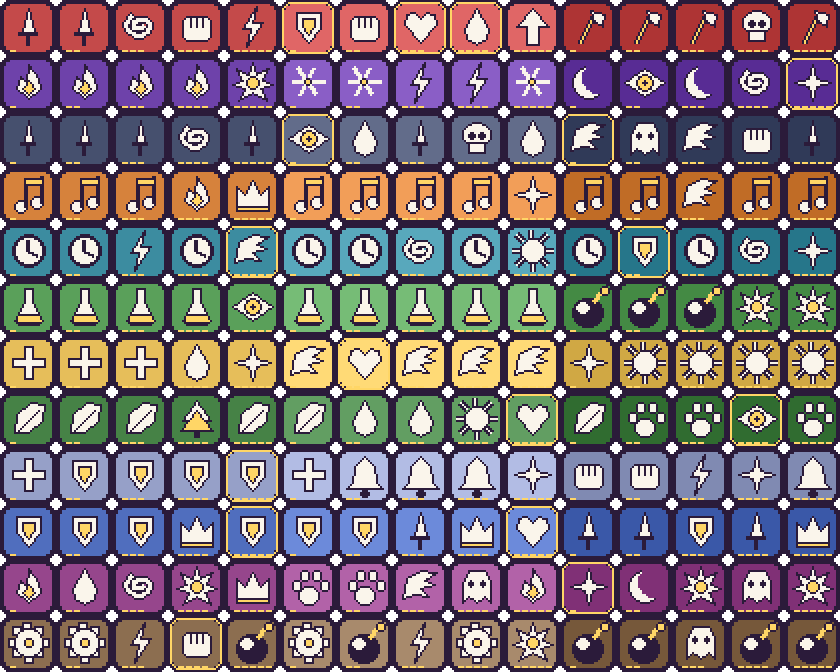
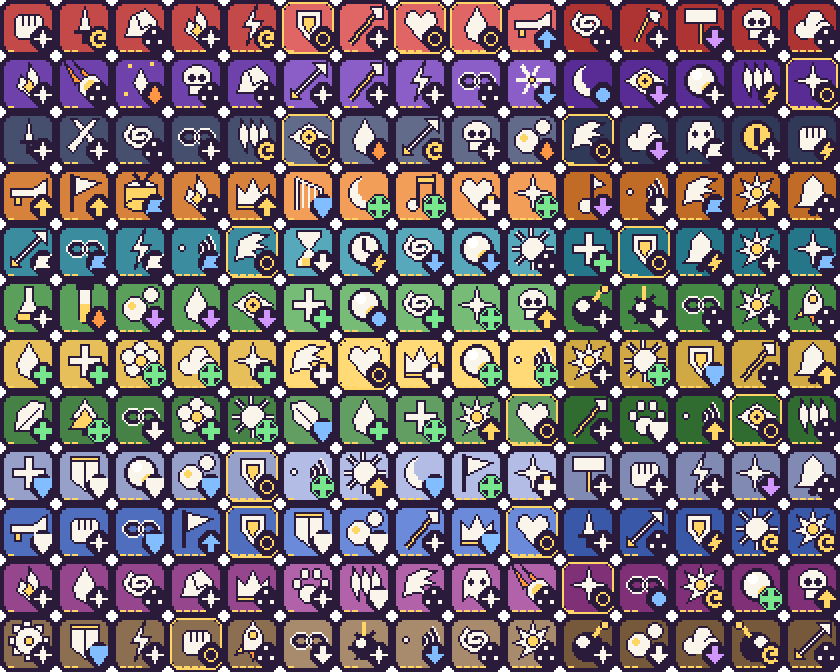
스킬 아이콘: 180개 모두 다른 그림 (모양 25종 추가 + 종류 표시 + 겹치면 변형)
Claude-Session: https://claude.ai/code/session_01HhJ2NoNCjk5kaA3GWL7UDs

Changed region(s): [[0.0, 0.0, 1.0, 1.0]]

diff --git a/public/index.html b/public/index.html
@@ -21,7 +21,7 @@
   --fs:15px;--fs-s:13px;--fs-h:16px;--fs-talk:17px;--r-btn:12px;--r-panel:16px;--r-cell:8px;--hud-h:56px;--bar-h:64px;--dur:.18s}
 html.big{--fs:17px;--fs-s:15px;--fs-h:18px;--fs-talk:19px}
 .jic{display:inline-block;width:1.5em;height:1.5em;vertical-align:middle;background:url(art/jobs.png?v=1) 0 0/1200% 100%;background-position:calc(var(--i)*100%/11) 0;image-rendering:pixelated}
-.big .jic{width:34px;height:34px}.sic{display:inline-block;width:26px;height:26px;vertical-align:middle;background:url(art/skills.png?v=1) 0 0/1500% 1200%;background-position:calc(var(--c)*100%/14) calc(var(--r)*100%/11);image-rendering:pixelated}
+.big .jic{width:34px;height:34px}.sic{display:inline-block;width:26px;height:26px;vertical-align:middle;background:url(art/skills.png?v=2) 0 0/1500% 1200%;background-position:calc(var(--c)*100%/14) calc(var(--r)*100%/11);image-rendering:pixelated}
 .jgrid{display:grid;grid-template-columns:repeat(3,1fr);gap:6px}.jcard{display:flex;flex-direction:column;align-items:center;gap:2px;padding:8px 4px;border:2px solid var(--line,#5a4a78);border-radius:10px;background:transparent;color:inherit;font:inherit;text-align:center}.jcard .jic{width:32px;height:32px}.jcard b{font-size:13px}.jcard span{font-size:10px;opacity:.75;line-height:1.25}.jcard.on{border-color:#ffb84d;background:rgba(255,184,77,.18)}
 html.lowfx *,html.lowfx *::before,html.lowfx *::after{transition-duration:0s!important;animation-duration:0s!important}
 @media (prefers-reduced-motion:reduce){:root{--dur:0s}}

diff --git a/tools/skill_tree.py b/tools/skill_tree.py
@@ -41,6 +41,20 @@ T = {
             ('함정', [('덫 설치','s','gear'),('지뢰','d','bomb'),('전기 그물','S','bolt'),('연쇄 함정','D','gear'),('대지 폭파','D','burst')]),
             ('폭탄', [('수류탄','d','bomb'),('접착탄','s','bomb'),('연막탄','w','ghost'),('시한폭탄','c','bomb'),('집중 포화','D','bomb')])],
 }
+OV = {  # 같은 직업 안에서 그림이 겹치지 않게 이름별로 모양을 바꿔요
+ 'warrior': {'강타':'fist','대지 가르기':'rock','분노의 일격':'fire','되받아치기':'spear','파쇄':'hammer','폭풍 도끼':'cloud','회전 베기':'swirl','전장의 포효':'trumpet'},
+ 'black': {'화염구':'fireball','불씨':'ember','지옥불':'skull','메테오':'rock','서리 화살':'arrow','얼음 창':'spear','연쇄 번개':'chain','암흑 구체':'orb','공허의 손':'claw'},
+ 'thief': {'이중 베기':'cross2','칼춤':'swirl','연환':'chain','난도질':'claw','급소 찌르기':'arrow','피 웅덩이':'bubble','연막':'cloud','그림자 걸음':'ghost','훔치기':'coin','뒤잡기':'fist'},
+ 'bard': {'용기의 노래':'trumpet','승리의 행진':'flag','전장의 북소리':'drum','수호의 노래':'harp','자장가':'moon','되살림의 화음':'heart','불협화음':'note1','도발의 곡':'wave','앙코르':'burst','대합창':'bell'},
+ 'time': {'서두르기':'arrow','연속 가속':'chain','가속 영역':'wave','늦추기':'hourglass','시간 정체':'orb','되감기':'cross','시계 소환':'bell','시간 균열':'burst'},
+ 'alch': {'독 병':'tube','불안정 용액':'bubble','부식':'drop','응급 물약':'cross','마력 물약':'orb','혼합 약':'swirl','엘릭서':'star','변이약':'skull','점착 폭탄':'mine','연쇄 반응':'chain','연금 대폭발':'rocket'},
+ 'white': {'치유':'drop','큰 치유':'cross','집단 치유':'flower','신성한 비':'cloud','완전 소생':'crown','전체 소생':'orb','천사의 숨결':'wave','성광탄':'burst','빛의 장막':'shield','심판의 빛':'spear','광휘의 후광':'bell'},
+ 'druid': {'재생의 숲':'tree','뿌리 속박':'chain','생명의 나무':'flower','만개':'sun','독 제거':'cross','태양의 은총':'burst','가시 덩굴':'spear','늑대의 울음':'wave','야생의 화신':'claw'},
+ 'cleric': {'수호의 기도':'cross','성스러운 방패':'tower','대신 맞기':'orb','피해 흡수 막':'bubble','해제':'wave','축복':'sun','안식':'moon','순백의 종':'flag','철퇴':'hammer'},
+ 'knight': {'도발':'trumpet','방패 치기':'fist','전열':'chain','불굴의 외침':'flag','막아서기':'tower','방어 태세':'bubble','반격 태세':'spear','돌격':'arrow','정의의 칼날':'sun','기사의 일격':'burst'},
+ 'summon': {'대지 정령':'rock','곰 소환':'claw','용 소환':'fireball','마력 연결':'chain','송환':'orb','계약의 폭주':'skull'},
+ 'gadget': {'보조 포탑':'tower','요새 포대':'rocket','덫 설치':'chain','지뢰':'mine','전기 그물':'wave','연쇄 함정':'swirl','접착탄':'bubble','연막탄':'cloud','집중 포화':'arrow'},
+}
 ORDER = ['warrior','black','thief','bard','time','alch','white','druid','cleric','knight','summon','gadget']
 BG = {'warrior':(196,74,74),'black':(110,66,170),'thief':(70,80,110),'bard':(214,130,60),'time':(60,140,160),'alch':(90,160,90),'white':(230,190,90),'druid':(70,130,70),'cleric':(150,160,200),'knight':(80,110,190),'summon':(150,70,140),'gadget':(140,110,80)}
 O = (43,27,58,255); S = 28; G = 24
@@ -89,21 +103,86 @@ def glyph(g, d, fg, ac):
     elif g == 'up': P([(12,3),(20,12),(15,12),(15,21),(9,21),(9,12),(4,12)])
     elif g == 'crown': P([(4,18),(4,8),(8,12),(12,5),(16,12),(20,8),(20,18)]); d.rectangle([4,18,20,20], fill=ac, outline=O)
     elif g == 'ghost': P([(5,20),(5,10),(8,4),(16,4),(19,10),(19,20),(16,17),(12,20),(8,17)]); d.ellipse([8,9,10,12], fill=O); d.ellipse([14,9,16,12], fill=O)
+    elif g == 'trumpet': P([(3,10),(14,10),(21,5),(21,19),(14,14),(3,14)]); d.rectangle([5,14,8,18], fill=ac, outline=O)
+    elif g == 'flag': d.rectangle([5,3,6,21], fill=O); P([(7,4),(20,7),(7,13)])
+    elif g == 'drum': d.ellipse([4,6,20,12], fill=fg, outline=O); d.rectangle([4,9,20,18], fill=ac, outline=O); d.ellipse([4,15,20,21], fill=ac, outline=O); d.line([(8,2),(13,8)], fill=O, width=2); d.line([(17,2),(12,8)], fill=O, width=2)
+    elif g == 'harp': d.line([(6,20),(6,5),(18,10),(18,20)], fill=O, width=3); d.line([(6,20),(6,5),(18,10),(18,20)], fill=fg, width=1); [d.line([(x,7+(x-6)//4),(x,19)], fill=fg) for x in (9,12,15)]
+    elif g == 'note1': d.ellipse([7,15,14,22], fill=fg, outline=O); d.rectangle([13,3,14,18], fill=O); P([(14,3),(20,8),(14,10)])
+    elif g == 'wave':
+        for i, rr in enumerate((3, 6, 9)): d.arc([12-rr, 12-rr, 12+rr, 12+rr], -50, 50, fill=O, width=3); d.arc([12-rr, 12-rr, 12+rr, 12+rr], -50, 50, fill=fg, width=1)
+        d.ellipse([3,10,6,13], fill=fg, outline=O)
+    elif g == 'tube': d.rounded_rectangle([9,3,15,21], 3, fill=fg, outline=O); d.rectangle([10,12,14,20], fill=ac); d.rectangle([8,2,16,4], fill=O)
+    elif g == 'bubble': d.ellipse([3,8,15,20], fill=fg, outline=O); d.ellipse([13,3,21,11], fill=fg, outline=O); d.ellipse([6,11,9,14], fill=ac)
+    elif g == 'mine': d.ellipse([6,9,18,21], fill=O); d.ellipse([8,11,12,15], fill=fg); [d.line([(12+8*math.cos(a*math.pi/3),15+8*math.sin(a*math.pi/3)),(12+5*math.cos(a*math.pi/3),15+5*math.sin(a*math.pi/3))], fill=O, width=2) for a in range(6)]; d.rectangle([11,3,12,9], fill=ac)
+    elif g == 'rocket': P([(12,2),(17,9),(17,17),(7,17),(7,9)]); P([(7,13),(3,19),(7,18)], ac); P([(17,13),(21,19),(17,18)], ac); P([(10,17),(14,17),(12,22)], (255,150,60,255)); d.ellipse([10,7,14,11], fill=ac, outline=O)
+    elif g == 'rock': P([(4,18),(7,8),(14,4),(20,10),(21,18)]); d.line([(10,8),(12,14),(17,12)], fill=O)
+    elif g == 'hammer': d.rectangle([11,9,13,21], fill=O); d.rectangle([12,9,12,21], fill=ac); P([(4,4),(20,4),(20,11),(4,11)])
+    elif g == 'spear': d.line([(5,21),(17,7)], fill=O, width=3); d.line([(5,21),(17,7)], fill=ac, width=1); P([(15,3),(21,3),(21,9),(18,9)])
+    elif g == 'arrow': d.line([(4,20),(18,6)], fill=O, width=3); d.line([(4,20),(18,6)], fill=fg, width=1); P([(14,3),(21,3),(21,10)]); P([(3,16),(8,21),(3,21)], ac)
+    elif g == 'claw':
+        for x in (6,11,16): P([(x,3),(x+4,9),(x+3,20),(x-1,12)])
+    elif g == 'cloud': d.ellipse([3,10,12,19], fill=fg, outline=O); d.ellipse([8,5,18,16], fill=fg, outline=O); d.ellipse([13,10,22,19], fill=fg, outline=O); d.rectangle([7,13,17,18], fill=fg)
+    elif g == 'orb': d.ellipse([4,4,20,20], fill=fg, outline=O, width=2); d.ellipse([8,7,12,11], fill=(255,255,255,255)); d.ellipse([13,13,18,18], fill=ac)
+    elif g == 'ember': P([(12,6),(16,13),(12,19),(8,13)]); d.rectangle([6,4,7,5], fill=ac); d.rectangle([17,3,18,4], fill=ac); d.rectangle([4,18,5,19], fill=ac)
+    elif g == 'fireball': d.ellipse([9,9,21,21], fill=fg, outline=O); d.ellipse([12,12,18,18], fill=ac); P([(10,12),(2,3),(7,14)], (255,150,60,255)); P([(12,10),(6,2),(14,9)], (255,150,60,255))
+    elif g == 'hourglass': P([(6,3),(18,3),(18,6),(13,12),(18,18),(18,21),(6,21),(6,18),(11,12),(6,6)]); d.rectangle([9,17,15,20], fill=ac)
+    elif g == 'flower':
+        for a in range(5): r = math.radians(a*72-90); d.ellipse([12+6*math.cos(r)-4, 12+6*math.sin(r)-4, 12+6*math.cos(r)+4, 12+6*math.sin(r)+4], fill=fg, outline=O)
+        d.ellipse([9,9,15,15], fill=ac, outline=O)
+    elif g == 'chain': d.ellipse([3,8,13,16], outline=O, width=3); d.ellipse([11,8,21,16], outline=O, width=3); d.ellipse([3,8,13,16], outline=fg, width=1); d.ellipse([11,8,21,16], outline=fg, width=1)
+    elif g == 'coin': d.ellipse([4,4,20,20], fill=ac, outline=O, width=2); d.rectangle([11,8,13,16], fill=O)
+    elif g == 'tower': P([(5,4),(19,4),(19,15),(12,21),(5,15)]); d.rectangle([5,4,19,6], fill=ac, outline=O); d.line([(12,6),(12,19)], fill=O)
+    elif g == 'cross2': P([(5,3),(8,3),(21,17),(18,20)]); P([(19,3),(16,3),(3,17),(6,20)])
 PK = {'def':'shield','hp':'heart','atk':'fist','mag':'star','spd':'wing','vamp':'drop','crit':'eye'}
-def tile(job, b, r, code, g):
+VAR = [(0,0),(1,0),(0,25),(1,25),(0,-25),(1,-25),(0,50),(1,50),(0,-50),(1,-50)]   # (좌우 뒤집기, 기울기) — 같은 모양이 겹치면 돌려서 구분
+def mod(d, code, ac):   # 오른쪽 아래 작은 표시: 스킬 종류
+    X, Y = 21, 19; d.ellipse([X-6, Y-6, X+6, Y+6], fill=O); k = code[0]
+    W = (250,245,235,255); G = (120,230,140,255); Bl = (130,190,255,255); Pu = (210,150,255,255); Or = (255,150,70,255)
+    def up(c): d.polygon([(X,Y-4),(X+4,Y),(X+1,Y),(X+1,Y+4),(X-1,Y+4),(X-1,Y),(X-4,Y)], fill=c)
+    def dn(c): d.polygon([(X,Y+4),(X+4,Y),(X+1,Y),(X+1,Y-4),(X-1,Y-4),(X-1,Y),(X-4,Y)], fill=c)
+    def plus(c): d.rectangle([X-1,Y-4,X+1,Y+4], fill=c); d.rectangle([X-4,Y-1,X+4,Y+1], fill=c)
+    def dots(c): [d.rectangle([X+dx-1,Y+dy-1,X+dx,Y+dy], fill=c) for dx,dy in ((-3,2),(3,2),(0,-3))]
+    if code.startswith('P:'): d.ellipse([X-3,Y-3,X+3,Y+3], outline=ac)
+    elif k == 'd': d.polygon([(X,Y-4),(X+1,Y-1),(X+4,Y),(X+1,Y+1),(X,Y+4),(X-1,Y+1),(X-4,Y),(X-1,Y-1)], fill=W)
+    elif k == 'D': dots(W)
+    elif k == 'c': d.arc([X-4,Y-4,X+4,Y+4], 40, 330, fill=ac, width=2); d.rectangle([X,Y-1,X+3,Y], fill=ac)
+    elif k == 'h': plus(G)
+    elif k == 'H': plus(G); d.ellipse([X-5,Y-5,X+5,Y+5], outline=G)
+    elif k == 'r': plus(W); d.rectangle([X-1,Y-5,X+1,Y-4], fill=ac)
+    elif k in 'Bb': up(ac) if k == 'B' else up(Bl)
+    elif k in 'Gg': d.polygon([(X-4,Y-4),(X+4,Y-4),(X+4,Y),(X,Y+5),(X-4,Y)], fill=Bl if k == 'G' else W)
+    elif k in 'Xx': d.polygon([(X-4,Y+3),(X-2,Y-3),(X+4,Y-4),(X+1,Y),(X+3,Y+2)], fill=Bl if k == 'X' else W)
+    elif k in 'Ss': dn(Bl) if k == 'S' else dn(W)
+    elif k in 'Ww': dn(Pu)
+    elif k in 'Ff': d.polygon([(X,Y-4),(X+3,Y+1),(X,Y+4),(X-3,Y+1)], fill=Or)
+    elif k == 'Z': d.polygon([(X+1,Y-4),(X-3,Y+1),(X,Y+1),(X-1,Y+4),(X+3,Y-1),(X,Y-1)], fill=ac)
+    elif k == 'M': d.ellipse([X-3,Y-3,X+3,Y+3], fill=Bl)
+def tile(job, b, r, code, g, v):
     bg = BG[job]; k = (0, 28, -22)[b]; bg = tuple(max(0, min(255, c + k)) for c in bg)
-    fg = (255,255,255,255) if sum(bg) < 520 else (60,40,70,255); fg = (250,245,235,255); ac = (255,214,102,255)
+    fg = (250,245,235,255); ac = (255,214,102,255)
     im = Image.new('RGBA', (S, S), (0,0,0,0)); d = ImageDraw.Draw(im)
     d.rounded_rectangle([0,0,S-1,S-1], 5, fill=O); d.rounded_rectangle([2,2,S-3,S-3], 4, fill=bg+(255,))
     if code.startswith('P:'): d.rounded_rectangle([1,1,S-2,S-2], 5, outline=ac, width=1)
     g2 = Image.new('RGBA', (G, G), (0,0,0,0)); glyph(PK[code[2:]] if code.startswith('P:') else g, ImageDraw.Draw(g2), fg, ac)
-    im.alpha_composite(g2, (2,1))
-    for i in range(r+1): d.rectangle([5+i*4, 25, 7+i*4, 25], fill=ac)   # 열 번째 칸을 점으로 (뒤로 갈수록 강한 스킬)
+    fl, ang = VAR[v % len(VAR)]
+    if fl: g2 = g2.transpose(Image.FLIP_LEFT_RIGHT)
+    if ang: g2 = g2.rotate(ang, resample=Image.NEAREST)
+    im.alpha_composite(g2, (2,0))
+    for i in range(r+1): d.rectangle([4+i*4, 25, 6+i*4, 25], fill=ac)
+    mod(d, code, ac)
     return im
 sheet = Image.new('RGBA', (S*15, S*12))
+seen = set()
 for ji, job in enumerate(ORDER):
+    cnt = {}
     for b, (bn, sks) in enumerate(T[job]):
-        for r, (n, code, g) in enumerate(sks): sheet.paste(tile(job, b, r, code, g), ((b*5+r)*S, ji*S))
+        for r, (n, code, g) in enumerate(sks):
+            g = OV.get(job, {}).get(n, g); gg = PK[code[2:]] if code.startswith('P:') else g; v = cnt.get(gg, 0); cnt[gg] = v + 1
+            while True:   # 모든 아이콘이 서로 다르도록: 같은 그림이면 변형을 바꿔요
+                im = tile(job, b, r, code, g, v); key = (job, b, r, im.tobytes())
+                if all(k[3] != key[3] or k[0] != job for k in seen) : break
+                v += 1
+            seen.add(key); sheet.paste(im, ((b*5+r)*S, ji*S))
 sheet.resize((S*15*2, S*12*2), Image.NEAREST).save('public/art/skills.png', optimize=True)
 xt = {j: [[bn, [[n, c] for n, c, g in sks]] for bn, sks in T[j]] for j in ORDER}
 js = 'const XT = ' + json.dumps(xt, ensure_ascii=False, separators=(',', ':')) + ';'
